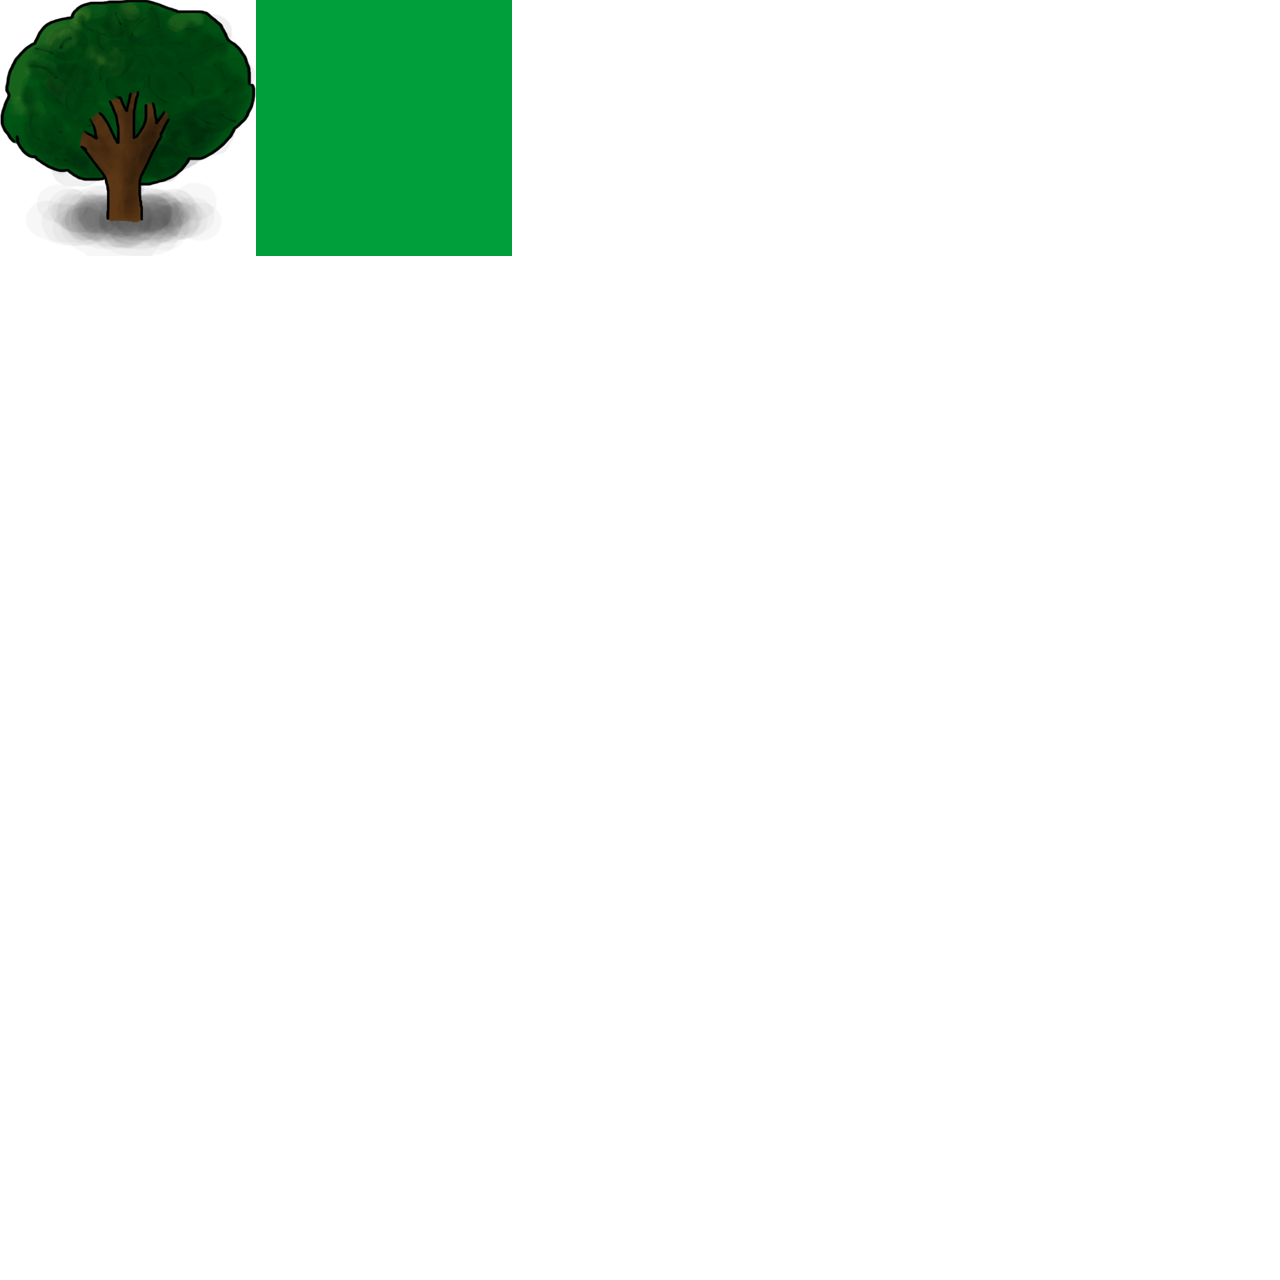
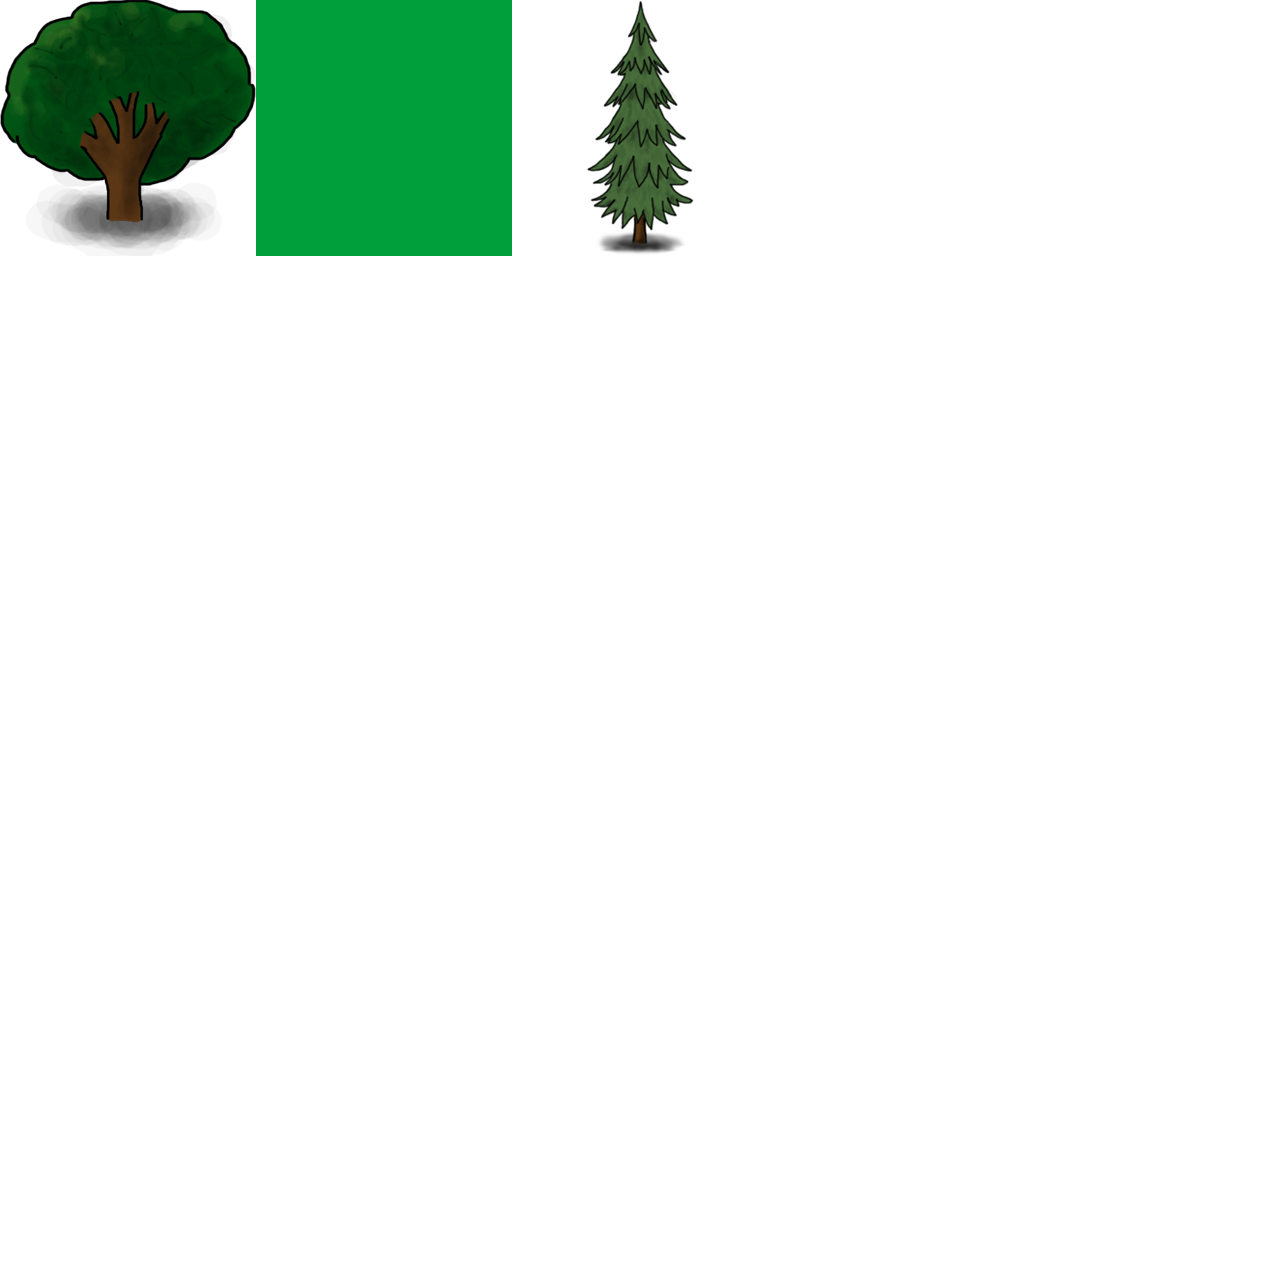
TheFifthGuild
Mas Clases del motor y mapa basico

Changed region(s): [[0.4688, 0.0, 0.5625, 0.2188]]

diff --git a/js/TFG/tile.js b/js/TFG/tile.js
@@ -1,0 +1,26 @@
+function tile(xEnTiles, yEnTiles, z, ancho, alto, sprite)
+{
+    this.rectangulo = new rectangulo(xEnTiles, yEnTiles, ancho, alto);
+    this.zIndex=z;
+    this.sprite=sprite;
+    this.idHtml="x"+ xEnTiles + "y" + yEnTiles + "z"+ z;
+    this.html ="<div id='"+ this.idHtml +"'></div>";
+}
+tile.prototype.aplicarEstilos = function(){
+    if(!document.getElementById(this.idHtml))
+    {
+        throw("El ID: " + this.idHtml + "no existe en la hoja");
+    }
+    document.getElementById(this.idHtml).style.position="absolute";
+    document.getElementById(this.idHtml).style.left=(this.rectangulo.x * this.rectangulo.ancho)+ "px";
+    document.getElementById(this.idHtml).style.top=(this.rectangulo.y * this.rectangulo.alto)+ "px";
+    document.getElementById(this.idHtml).style.width=this.rectangulo.ancho + "px";
+    document.getElementById(this.idHtml).style.height=this.rectangulo.alto + "px";
+    document.getElementById(this.idHtml).style.zIndex= ""+this.zIndex;
+    document.getElementById(this.idHtml).style.background="url('"+ this.sprite.rutaHojaOrigen +"')";
+    var x = this.sprite.posicionEnHoja.x;
+    var y = this.sprite.posicionEnHoja.y;
+    document.getElementById(this.idHtml).style.backgroundPosition = "-" + x + "px " + "-"+ y + "px";
+    document.getElementById(this.idHtml).style.backgroundClip="border-box";
+    document.getElementById(this.idHtml).style.outline="1px solid transparent";
+}

diff --git a/js/TFG/paletaSprites.js b/js/TFG/paletaSprites.js
@@ -1,0 +1,26 @@
+function paletaSprites(datosSprites)
+{
+    this.rutaImagen = datosSprites.image;
+    this.anchoImagen = parseInt(datosSprites.imagewidth);
+    this.altoImagen = parseInt(datosSprites.imageheight);
+
+    this.anchoSprites = parseInt(datosSprites.tilewidth);
+    this.altoSprites = parseInt(datosSprites.tileheight);
+
+    this.primerSpriteSobreUno= parseInt(datosSprites.firstgid);
+    this.anchoImagenMedidoEnSprites = this.anchoImagen / this.anchoSprites;
+    this.altoImagenMedidoEnSprites = this.altoImagen / this.altoSprites;
+    this.totalSprites = this.anchoImagenMedidoEnSprites * this.altoImagenMedidoEnSprites;
+
+    this.sprites = [];
+    for(s=0; s<this.totalSprites; s++)
+    {
+        var idActualSobreZero = this.primerSpriteSobreUno -1 +s;
+        this.sprites.push(new sprite(this.rutaImagen, idActualSobreZero, this.obtenerPosiscionDesdeIdSprite(idActualSobreZero)));
+    }
+    paletaSprites.prototype.obtenerPosiscionDesdeIdSprite = function(idSpriteSobreZero){
+        var y = Math.floor(idSprite / this.anchoImagenMedidoEnSprites);
+        var x = idSprite % this.altoImagenMedidoEnSprites;
+        return new punto(x*this.anchoSprites,y*this.altoSprites);
+    }
+}

diff --git a/js/TFG/rectangulo.js b/js/TFG/rectangulo.js
@@ -4,18 +4,4 @@ function rectangulo(x, y, ancho, alto)
     this.y=y+50;
     this.ancho=ancho;
     this.alto=alto;
-    this.id=x+ "r" +y;
-    this.insetarDOM();
-}
-rectangulo.prototype.insetarDOM = function(){
-  var div = "<div id='" +this.id+ "'></div>";
-  var html= document.getElementById("juego").innerHTML;
-  var color= "#"+ Math.floor(Math.random() * 16777215).toString(16);
-  document.getElementById("juego").innerHTML=html+div;
-  document.getElementById(this.id).style.position ="absolute";
-  document.getElementById(this.id).style.left =this.x + "px";
-  document.getElementById(this.id).style.top =this.y + "px";
-  document.getElementById(this.id).style.width =this.ancho + "px";
-  document.getElementById(this.id).style.height =this.alto + "px";
-  document.getElementById(this.id).style.backgroundColor =color;
 }

diff --git a/js/TFG/capaMapaTiles.js b/js/TFG/capaMapaTiles.js
@@ -1,0 +1,16 @@
+function capaMapaTiles(datosCapa, indiceZ, anchoDeLosTiles, altoDeLosTiles, paletaSprites)
+{
+    this.anchoEnTiles = parseInt(datosCapa.width);
+    this.altoEnTiles = parseInt(datosCapa.height);
+    this.x = parseInt(datosCapa.x);
+    this.y = parseInt(datosCapa.y);
+    this.z = indiceZ
+    this.tiles = [];
+    for(y=0; y<this.altoEnTiles; y++)
+    {
+        for(x=0; x<this.anchoEnTiles; x++)
+        {
+
+        }
+    }
+}

diff --git a/js/TFG/sprites.js b/js/TFG/sprites.js
@@ -1,0 +1,8 @@
+function sprite(ruta, idSobreZero, posicioneEnHoja)
+{
+  var elementosRuta = ruta.split("/");   
+  this.rutaHojaOrigen = "imagenes/TFG/mapas/"+elementosRuta[elementosRuta.length - 1];
+  this.idSobreZero = idSobreZero;
+  this.idSobreUno = idSobreZero+1;
+  this.posicioneEnHoja= posicioneEnHoja;
+}

diff --git a/js/TFG/TFG.js b/js/TFG/TFG.js
@@ -7,6 +7,8 @@ document.addEventListener("DOMContentLoaded", function() {
 var inicio={
   iniciarJuego: function()
   {
+    
+    ajax.cargarArchivo("imagenes/TFG/mapas/mapita.json");
     teclado.iniciar();
     dimensiones.iniciar();
     mando.iniciar();

diff --git a/js/TFG/punto.js b/js/TFG/punto.js
@@ -1,0 +1,9 @@
+function punto (x, y)
+{
+    this.x=x;
+    this.y=y;
+}
+punto.prototype.coincide = function(punto)
+{
+    return (this.x == punto.x && this.y==punto.y) ? true:false;
+}

diff --git a/app/cargadorArchivosjs.inc.php b/app/cargadorArchivosjs.inc.php
@@ -1,0 +1,26 @@
+<?php
+include_once "config.inc.php";
+
+$fecha = new DateTime();
+$fuentesJavaScript = array(
+    RUTAJSTFG."rectangulo.js",
+    RUTAJSTFG."punto.js",
+    RUTAJSTFG."paletaSprites.js",
+    RUTAJSTFG."sprites.js",
+    RUTAJSTFG."tile.js",
+    RUTAJSTFG."ajax.js",
+    RUTAJSTFG."teclado.js",
+    RUTAJSTFG."mando.js",
+    RUTAJSTFG."mainBucle.js",
+    RUTAJSTFG."dimensiones.js",
+    RUTAJSTFG."TFG.js"
+);
+
+foreach($fuentesJavaScript as $fuente)
+{
+
+    echo "<script src=".$fuente."?".$fecha->getTimestamp()."></script>";
+    echo nl2br("\n");
+}
+
+?>

diff --git a/vistas/TheFifthGuild.php b/vistas/TheFifthGuild.php
@@ -2,16 +2,11 @@
 $P=2;
 include_once "Plantillas/head.php";
 include_once "Plantillas/bar.php";
+
  ?>
- <div id="juego">
- </div>
- <script src="js/TFG/mainBucle.js"></script>
- <script src="js/TFG/dimensiones.js"></script>
- <script src="js/TFG/teclado.js"></script>
- <script src="js/TFG/mando.js"></script>
- <script src="js/TFG/TFG.js"></script>
-<script src="js/TFG/rectangulo.js">
-</script>
+ <div id="juego"></div>
  <?php
-include_once "Plantillas/cierre.php";
+ include_once "app/cargadorArchivosjs.inc.php";
+  include_once "Plantillas/cierre.php";
   ?>
+

diff --git a/app/config.inc.php b/app/config.inc.php
@@ -27,6 +27,7 @@ define("RUTALEARNING", SERVIDOR.LEARNING);
 //SOURCES
 define("RUTACSS", SERVIDOR . "/css/");
 define("RUTAJS", SERVIDOR . "/js/");
+define("RUTAJSTFG", SERVIDOR."/js/TFG/");
 define("RUTAIMAGENES", SERVIDOR . "/imagenes/");
 define("RUTAPLANTILLAS", SERVIDOR .  "/Plantillas/");
 define("RUTAAPP", SERVIDOR . "/app/");

diff --git a/Plantillas/head.php b/Plantillas/head.php
@@ -6,8 +6,9 @@
    <meta name="Description" content="Hard-Level plataforma de soluciones online">
    <link href="<?php echo RUTACSS; ?>estilos.css" rel="stylesheet" >
    <link href="<?php echo RUTACSS; ?>bootstrap.min.css" rel="stylesheet">
-
+  
    <?php
+   
    if(!isset($titulo)||empty($titulo))
    {
 

diff --git a/index.php b/index.php
@@ -75,6 +75,7 @@ if($partesRuta[1]=="TheFifthGuild")
 {
   include_once "vistas/TheFifthGuild.php";
   $encontrada=1;
+  include_once "app/cargadorArchivosjs.inc.php";
 }
 if(!empty($partesRuta[2]))
 {
